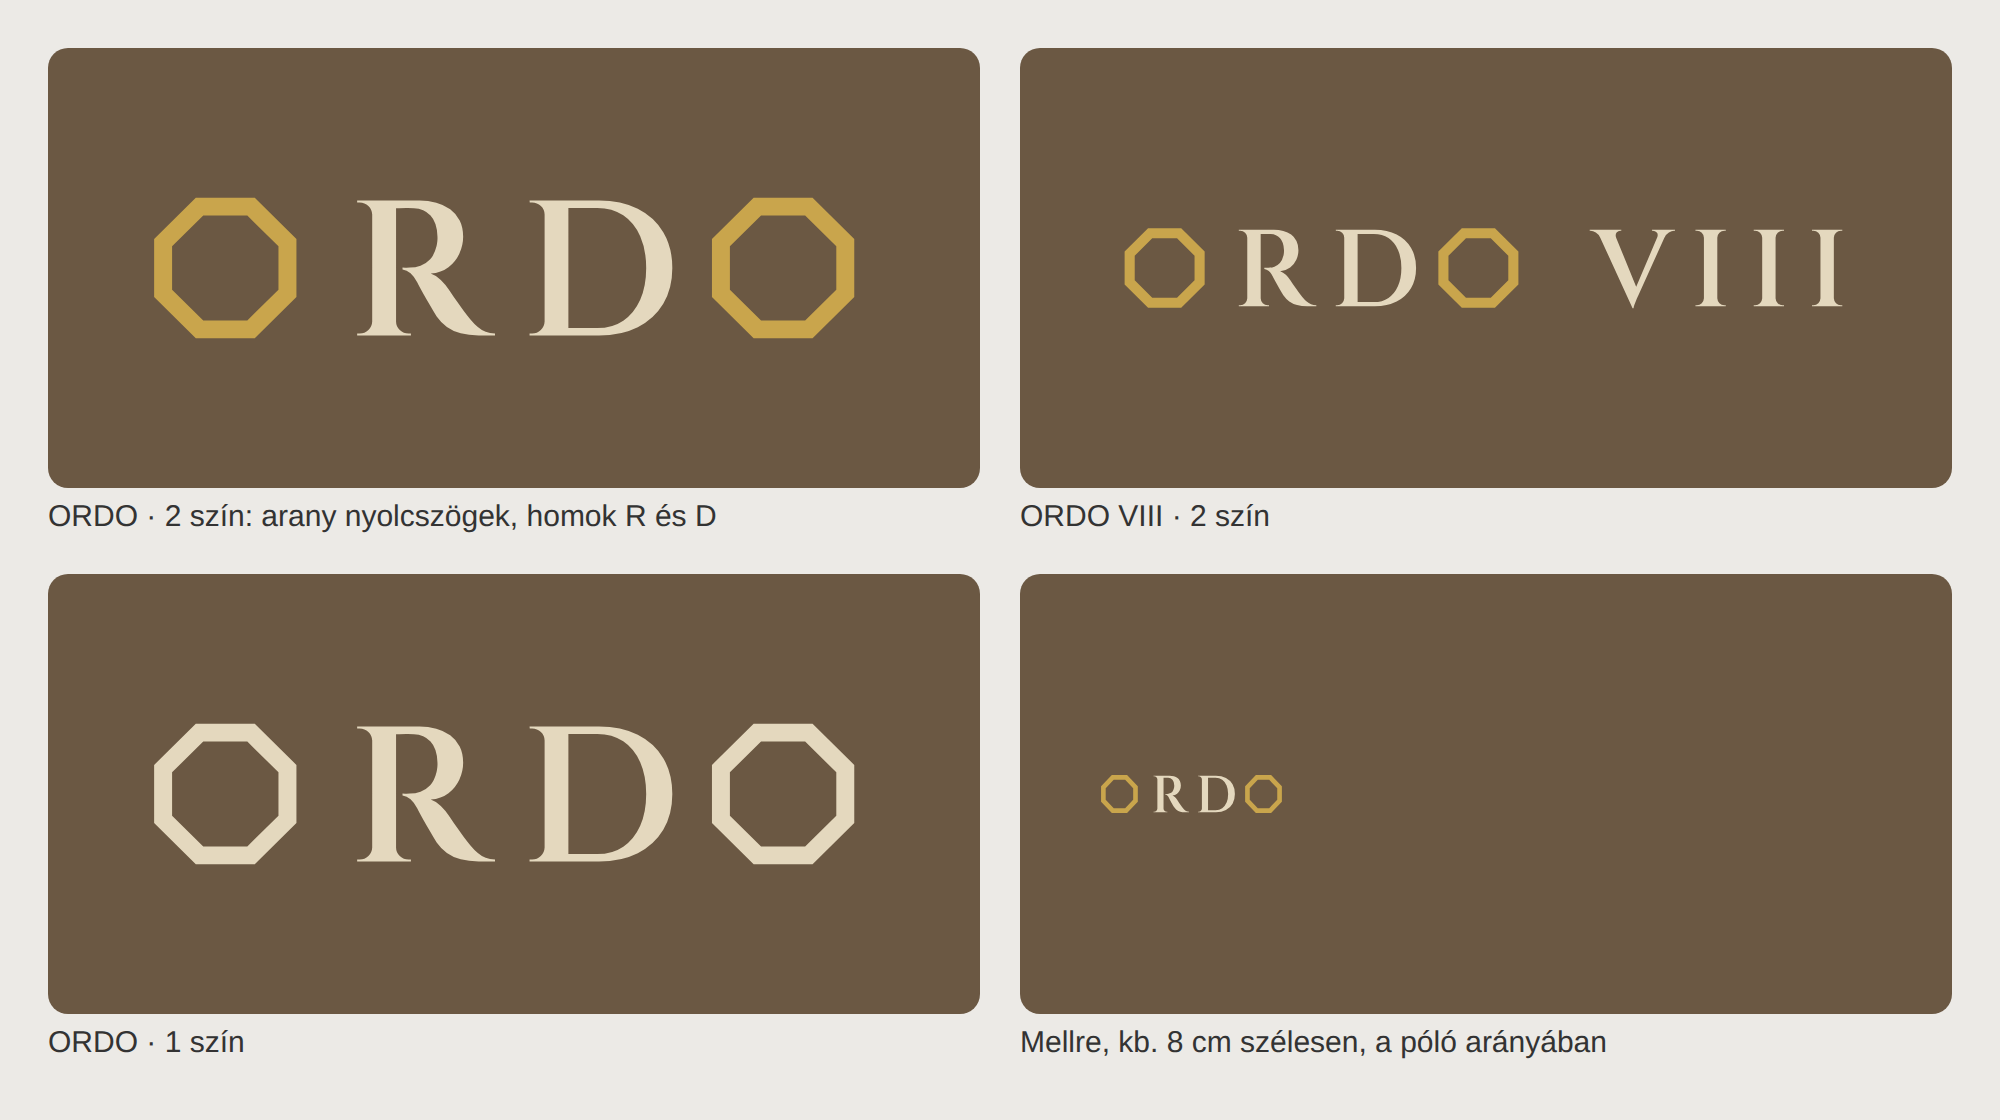
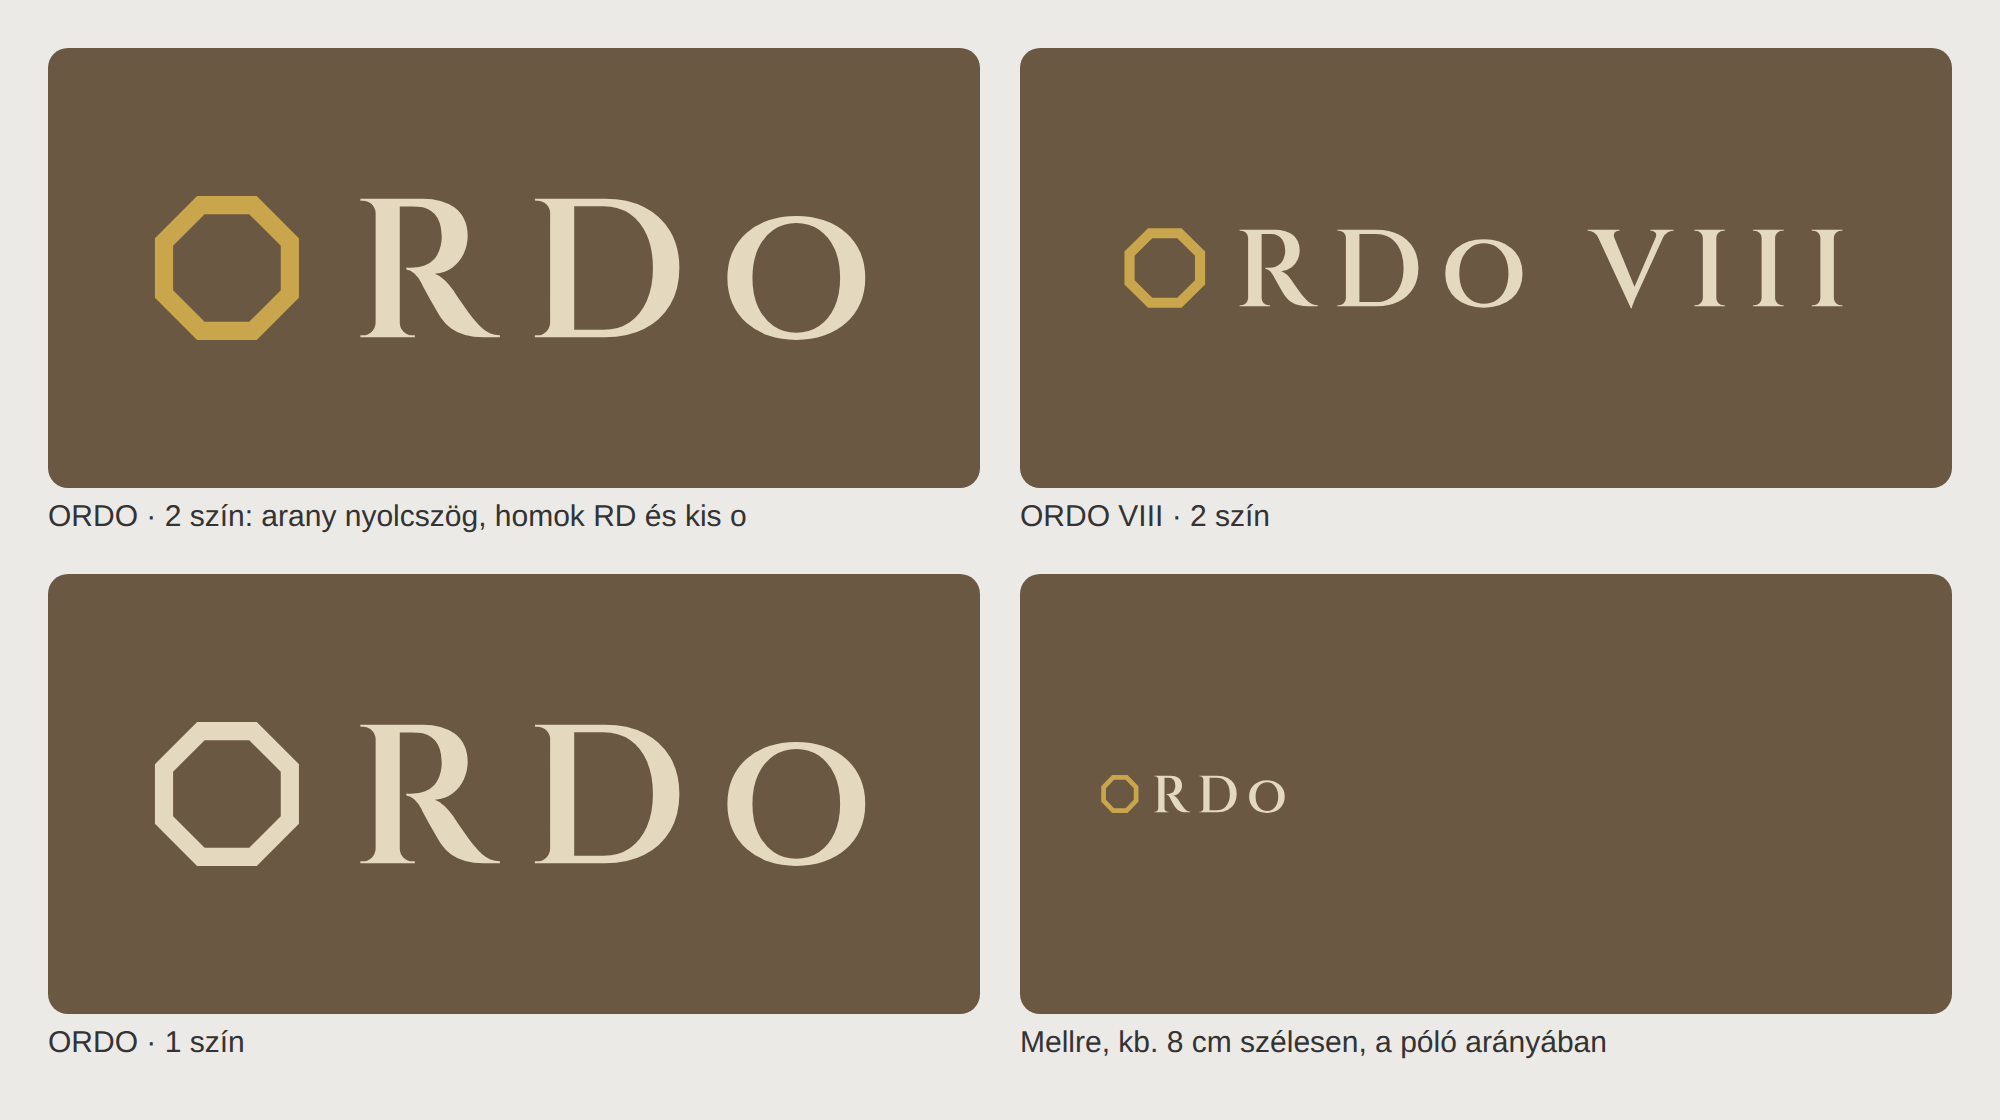
ORDO szóvédjegy: a második o sima kis o
Claude-Session: https://claude.ai/code/session_018DCaQ2QiM1BP2YECC3EEuy

diff --git a/docs/arculat/polo/build_wordmark.py b/docs/arculat/polo/build_wordmark.py
@@ -1,4 +1,4 @@
-"""ORDO szóvédjegy nyolcszögletű O betűkkel – nyomdakész SVG-k (görbésítve).
+"""ORDO szóvédjegy: az első O nyolcszög, a második kis o – nyomdakész SVG-k (görbésítve).
 
 Használat: python3 build_wordmark.py <Cinzel változó betűfájl (.ttf/.woff2)>
 Kell hozzá: pip install fonttools brotli
@@ -76,7 +76,8 @@ def write(name, text, oct_color, color, width_mm):
     (OUT / f"ordo-szovedjegy-{name}.svg").write_text(out, encoding="utf-8")
 
 
-write("2szin", "ORDO", ARANY, HOMOK, 80)
-write("2szin-viii", "ORDO VIII", ARANY, HOMOK, 100)
-write("1szin", "ORDO", HOMOK, HOMOK, 80)
+# Csak az első O nyolcszög; a második a Cinzel kisbetűs o-ja (kiskapitális), a szöveg színében.
+write("2szin", "ORDo", ARANY, HOMOK, 80)
+write("2szin-viii", "ORDo VIII", ARANY, HOMOK, 100)
+write("1szin", "ORDo", HOMOK, HOMOK, 80)
 print("kész")
